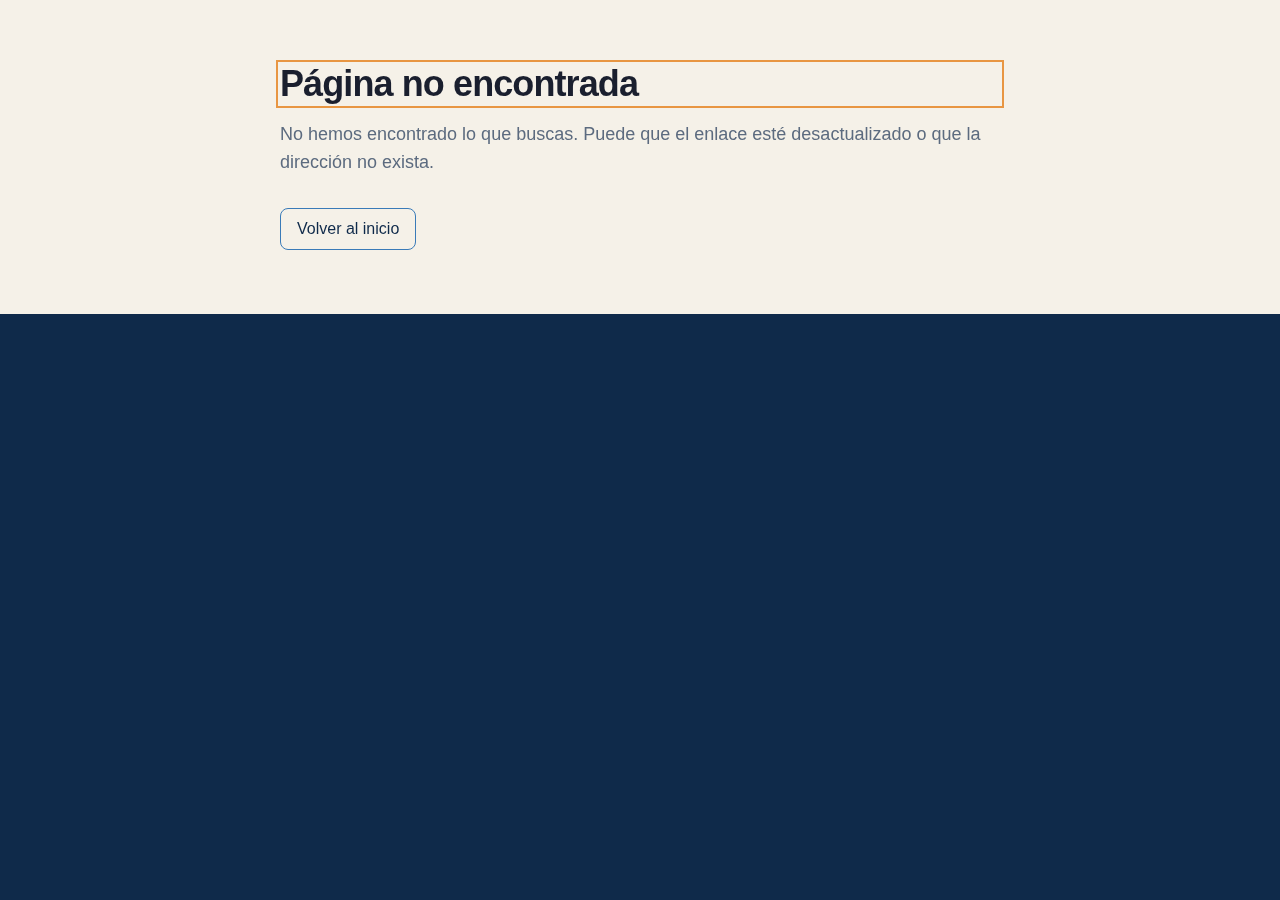
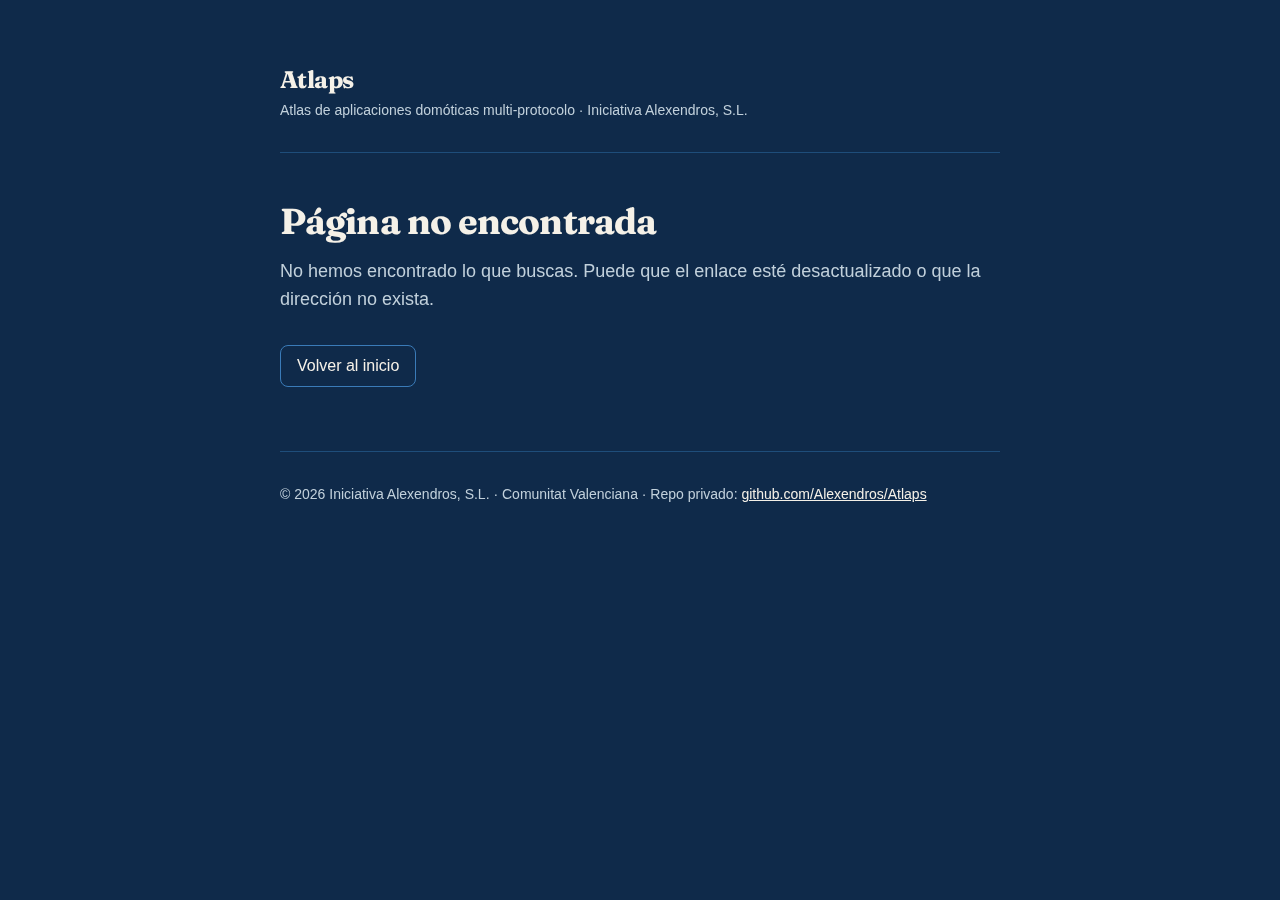
fix(ui): 404/500 con chrome del portal y tokens de tema

diff --git a/app/global-error.tsx b/app/global-error.tsx
@@ -1,6 +1,8 @@
 "use client";
 
 import { useEffect, useRef } from "react";
+import "./globals.css";
+import { PortalErrorChrome } from "./components/portal-error-chrome";
 
 export default function GlobalError({
   reset,
@@ -10,38 +12,63 @@ export default function GlobalError({
 }) {
   const titleRef = useRef<HTMLHeadingElement>(null);
   useEffect(() => {
+    try {
+      const stored = localStorage.getItem("atlaps-theme");
+      const prefers = window.matchMedia("(prefers-color-scheme: dark)").matches;
+      const theme = stored === "light" || stored === "dark" ? stored : prefers ? "dark" : "light";
+      document.documentElement.setAttribute("data-theme", theme);
+    } catch {
+      /* ignore */
+    }
     titleRef.current?.focus();
   }, []);
 
   return (
-    <html lang="es">
-      <body className="bg-paper-bone text-ink-graphite antialiased">
-        <main id="main" className="mx-auto max-w-3xl px-6 py-16">
+    <html lang="es" data-surface="marketing" suppressHydrationWarning>
+      <body className="antialiased">
+        <PortalErrorChrome
+          brand={
+            // eslint-disable-next-line @next/next/no-html-link-for-pages -- root layout ausente
+            <a href="/" className="text-[var(--surface-fg)] no-underline hover:underline">
+              Atlaps
+            </a>
+          }
+          repo={
+            <a
+              href="https://github.com/Alexendros/Atlaps"
+              className="text-[var(--surface-link)] underline"
+            >
+              github.com/Alexendros/Atlaps
+            </a>
+          }
+        >
           <h1
             ref={titleRef}
             tabIndex={-1}
-            className="text-4xl font-bold tracking-tight outline-none"
+            className="font-display text-4xl font-bold tracking-tight"
           >
             Algo ha fallado
           </h1>
-          <p className="mt-4 text-lg">
+          <p className="mt-4 text-lg text-[var(--surface-muted)]">
             No hemos podido completar la solicitud. Puedes reintentarlo o volver al inicio.
           </p>
           <div className="mt-8 flex flex-wrap gap-3">
             <button
               type="button"
               onClick={reset}
-              className="inline-flex rounded-md border px-4 py-2 font-medium"
+              className="inline-flex rounded-md border border-[var(--surface-accent-border)] px-4 py-2 font-medium text-[var(--surface-link)] hover:bg-[var(--surface-accent-border)]/10"
             >
               Reintentar
             </button>
-            {/* global-error sustituye el root layout: Link de next no aplica aquí */}
             {/* eslint-disable-next-line @next/next/no-html-link-for-pages -- root layout ausente */}
-            <a href="/" className="inline-flex rounded-md border px-4 py-2 font-medium">
+            <a
+              href="/"
+              className="inline-flex rounded-md border border-[var(--surface-border)] px-4 py-2 font-medium text-[var(--surface-muted)] hover:bg-[var(--surface-border)]/40"
+            >
               Volver al inicio
             </a>
           </div>
-        </main>
+        </PortalErrorChrome>
       </body>
     </html>
   );

diff --git a/app/error.tsx b/app/error.tsx
@@ -3,6 +3,7 @@
 import { useEffect } from "react";
 import Link from "next/link";
 import { FocusTitle } from "./components/focus-title";
+import { PortalErrorShell } from "./components/portal-error-shell";
 
 export default function Error({
   error,
@@ -16,28 +17,28 @@ export default function Error({
   }, [error]);
 
   return (
-    <main id="main" className="mx-auto max-w-3xl px-6 py-16">
-      <FocusTitle className="text-4xl font-bold tracking-tight outline-none">
+    <PortalErrorShell>
+      <FocusTitle className="font-display text-4xl font-bold tracking-tight">
         Algo ha fallado
       </FocusTitle>
-      <p className="text-ink-pencil mt-4 text-lg">
+      <p className="mt-4 text-lg text-[var(--surface-muted)]">
         No hemos podido completar la solicitud. Puedes reintentarlo o volver al inicio.
       </p>
       <div className="mt-8 flex flex-wrap gap-3">
         <button
           type="button"
           onClick={reset}
-          className="border-blueprint-soft text-blueprint-deep hover:bg-blueprint-soft/10 inline-flex rounded-md border px-4 py-2 font-medium"
+          className="inline-flex rounded-md border border-[var(--surface-accent-border)] px-4 py-2 font-medium text-[var(--surface-link)] hover:bg-[var(--surface-accent-border)]/10"
         >
           Reintentar
         </button>
         <Link
           href="/"
-          className="border-paper-grid text-ink-graphite hover:bg-paper-grid/40 inline-flex rounded-md border px-4 py-2 font-medium"
+          className="inline-flex rounded-md border border-[var(--surface-border)] px-4 py-2 font-medium text-[var(--surface-muted)] hover:bg-[var(--surface-border)]/40"
         >
           Volver al inicio
         </Link>
       </div>
-    </main>
+    </PortalErrorShell>
   );
 }

diff --git a/app/layout.tsx b/app/layout.tsx
@@ -1,5 +1,5 @@
 import type { Metadata, Viewport } from "next";
-import { headers } from "next/headers";
+import { cookies, headers } from "next/headers";
 import Script from "next/script";
 import "./globals.css";
 
@@ -54,6 +54,10 @@ export const viewport: Viewport = {
 export default async function RootLayout({
   children,
 }: Readonly<{ children: React.ReactNode }>) {
+  // Visual-review de global-error: cookie de sesión, sin ruta pública.
+  if ((await cookies()).get("atlaps-force-global-error")?.value === "1") {
+    throw new Error("preview-global-error");
+  }
   // CSP nonce-based con 'strict-dynamic': el `<Script>` debe llevar el mismo
   // nonce emitido por proxy.ts (header x-nonce). Sin esto, en producción
   // `theme-init.js` y otros scripts user-defined son bloqueados por la CSP.
@@ -68,10 +72,10 @@ export default async function RootLayout({
           nonce={nonce}
         />
       </head>
-      <body className="bg-paper-bone text-ink-graphite antialiased">
+      <body className="antialiased">
         <a
           href="#main"
-          className="focus:border-blueprint-soft focus:bg-paper-bone focus:text-blueprint-deep focus:ring-blueprint-soft sr-only focus:not-sr-only focus:absolute focus:top-4 focus:left-4 focus:z-50 focus:rounded-md focus:border focus:px-4 focus:py-2 focus:ring-2 focus:outline-none"
+          className="sr-only focus:not-sr-only focus:absolute focus:top-4 focus:left-4 focus:z-50 focus:rounded-md focus:border focus:border-[var(--surface-accent-border)] focus:bg-[var(--surface-bg)] focus:px-4 focus:py-2 focus:text-[var(--surface-link)] focus:ring-2 focus:ring-[var(--surface-accent-border)] focus:outline-none"
         >
           Saltar al contenido
         </a>

diff --git a/app/globals.css b/app/globals.css
@@ -7,11 +7,44 @@
   outline-offset: 2px;
 }
 
-html[data-theme="light"] {
-  background-color: var(--color-paper-bone);
-  color: var(--color-ink-graphite);
+/* Foco programático del h1 de error: sin anillo; el tabulador sigue con *:focus-visible. */
+[tabindex="-1"]:focus {
+  outline: none;
 }
+
+/* Fallback hasta que theme-init fije data-theme. */
+:root {
+  --surface-bg: var(--color-paper-bone);
+  --surface-fg: var(--color-ink-graphite);
+  --surface-muted: var(--color-ink-pencil);
+  --surface-border: var(--color-paper-grid);
+  --surface-link: var(--color-blueprint-deep);
+  --surface-accent-border: var(--color-blueprint-soft);
+}
+
+html[data-theme="light"] {
+  --surface-bg: var(--color-paper-bone);
+  --surface-fg: var(--color-ink-graphite);
+  --surface-muted: var(--color-ink-pencil);
+  --surface-border: var(--color-paper-grid);
+  --surface-link: var(--color-blueprint-deep);
+  --surface-accent-border: var(--color-blueprint-soft);
+  background-color: var(--surface-bg);
+  color: var(--surface-fg);
+}
+
 html[data-theme="dark"] {
-  background-color: var(--color-blueprint-deep);
-  color: var(--color-paper-bone);
+  --surface-bg: var(--color-blueprint-deep);
+  --surface-fg: var(--color-paper-bone);
+  --surface-muted: color-mix(in srgb, var(--color-paper-bone) 72%, var(--color-blueprint-soft));
+  --surface-border: var(--color-blueprint-mid);
+  --surface-link: var(--color-paper-bone);
+  --surface-accent-border: var(--color-blueprint-soft);
+  background-color: var(--surface-bg);
+  color: var(--surface-fg);
+}
+
+body {
+  background-color: var(--surface-bg, var(--color-paper-bone));
+  color: var(--surface-fg, var(--color-ink-graphite));
 }

diff --git a/app/not-found.tsx b/app/not-found.tsx
@@ -1,6 +1,7 @@
 import type { Metadata } from "next";
 import Link from "next/link";
 import { FocusTitle } from "./components/focus-title";
+import { PortalErrorShell } from "./components/portal-error-shell";
 
 export const metadata: Metadata = {
   title: "Página no encontrada",
@@ -9,22 +10,22 @@ export const metadata: Metadata = {
 
 export default function NotFound() {
   return (
-    <main id="main" className="mx-auto max-w-3xl px-6 py-16">
-      <FocusTitle className="text-4xl font-bold tracking-tight outline-none">
+    <PortalErrorShell>
+      <FocusTitle className="font-display text-4xl font-bold tracking-tight">
         Página no encontrada
       </FocusTitle>
-      <p className="text-ink-pencil mt-4 text-lg">
+      <p className="mt-4 text-lg text-[var(--surface-muted)]">
         No hemos encontrado lo que buscas. Puede que el enlace esté desactualizado o que la
         dirección no exista.
       </p>
       <p className="mt-8">
         <Link
           href="/"
-          className="border-blueprint-soft text-blueprint-deep hover:bg-blueprint-soft/10 inline-flex rounded-md border px-4 py-2 font-medium"
+          className="inline-flex rounded-md border border-[var(--surface-accent-border)] px-4 py-2 font-medium text-[var(--surface-link)] hover:bg-[var(--surface-accent-border)]/10"
         >
           Volver al inicio
         </Link>
       </p>
-    </main>
+    </PortalErrorShell>
   );
 }

diff --git a/app/components/portal-error-chrome.tsx b/app/components/portal-error-chrome.tsx
@@ -1,0 +1,32 @@
+import type { ReactNode } from "react";
+
+type PortalErrorChromeProps = {
+  children: ReactNode;
+  brand: ReactNode;
+  repo: ReactNode;
+};
+
+/**
+ * Cabecera + pie del portal para páginas de error.
+ * Colores vía --surface-* (tema claro/oscuro), sin hex fijos en el contenedor.
+ */
+export function PortalErrorChrome({ children, brand, repo }: PortalErrorChromeProps) {
+  return (
+    <div className="min-h-dvh bg-[var(--surface-bg)] text-[var(--surface-fg)]">
+      <main id="main" className="mx-auto max-w-3xl px-6 py-16">
+        <header className="border-b border-[var(--surface-border)] pb-8">
+          <p className="font-display text-2xl font-bold tracking-tight">{brand}</p>
+          <p className="mt-1 text-sm text-[var(--surface-muted)]">
+            Atlas de aplicaciones domóticas multi-protocolo · Iniciativa Alexendros, S.L.
+          </p>
+        </header>
+
+        <div className="mt-12">{children}</div>
+
+        <footer className="mt-16 border-t border-[var(--surface-border)] pt-8 text-sm text-[var(--surface-muted)]">
+          <p>© 2026 Iniciativa Alexendros, S.L. · Comunitat Valenciana · Repo privado: {repo}</p>
+        </footer>
+      </main>
+    </div>
+  );
+}

diff --git a/app/components/portal-error-shell.tsx b/app/components/portal-error-shell.tsx
@@ -1,0 +1,30 @@
+import Link from "next/link";
+import type { ReactNode } from "react";
+import { PortalErrorChrome } from "./portal-error-chrome";
+
+type PortalErrorShellProps = {
+  children: ReactNode;
+};
+
+/** Cáscara de error con next/link (404 / error.tsx). */
+export function PortalErrorShell({ children }: PortalErrorShellProps) {
+  return (
+    <PortalErrorChrome
+      brand={
+        <Link href="/" className="text-[var(--surface-fg)] no-underline hover:underline">
+          Atlaps
+        </Link>
+      }
+      repo={
+        <a
+          href="https://github.com/Alexendros/Atlaps"
+          className="text-[var(--surface-link)] underline"
+        >
+          github.com/Alexendros/Atlaps
+        </a>
+      }
+    >
+      {children}
+    </PortalErrorChrome>
+  );
+}

diff --git a/app/preview-error/layout.tsx b/app/preview-error/layout.tsx
@@ -1,0 +1,11 @@
+import type { Metadata } from "next";
+import type { ReactNode } from "react";
+
+export const metadata: Metadata = {
+  title: "Preview error",
+  robots: { index: false, follow: false },
+};
+
+export default function PreviewErrorLayout({ children }: { children: ReactNode }) {
+  return children;
+}

diff --git a/app/preview-error/page.tsx b/app/preview-error/page.tsx
@@ -1,0 +1,9 @@
+"use client";
+
+/**
+ * Ruta de visual-review para capturar error.tsx (misma cáscara que global-error).
+ * No enlazada desde el portal.
+ */
+export default function PreviewErrorPage(): never {
+  throw new Error("preview-error-500");
+}

diff --git a/app/__tests__/layout.test.tsx b/app/__tests__/layout.test.tsx
@@ -8,6 +8,10 @@ vi.mock("next/headers", () => ({
     Promise.resolve({
       get: (_: string) => null,
     }),
+  cookies: () =>
+    Promise.resolve({
+      get: (_: string) => undefined,
+    }),
 }));
 
 describe("RootLayout", () => {

diff --git a/docs/security/capturas/fase-5a/README.md b/docs/security/capturas/fase-5a/README.md
@@ -1,5 +1,6 @@
 # Capturas fase 5a · proxy, errores y CSP Report-Only
 
-- `after/`: 404 y `/socios/` a 1280/390, claro/oscuro, tras el PR.
+- `after/`: 404 y 500 (`global-error`) a 1280×900 (`d`) y 390×900 (`m`), claro y oscuro, tras el PR.
+- 404: `/ruta-inexistente-visual`. 500: cookie de sesión `atlaps-force-global-error=1` (dispara `global-error`).
 - La CSP de bloqueo se mantiene; `Content-Security-Policy-Report-Only` es más estricta (sin `unsafe-inline` en style).
 - Fase 5b (bloqueo estricto) solo cuando la preview no dé avisos CSP.
